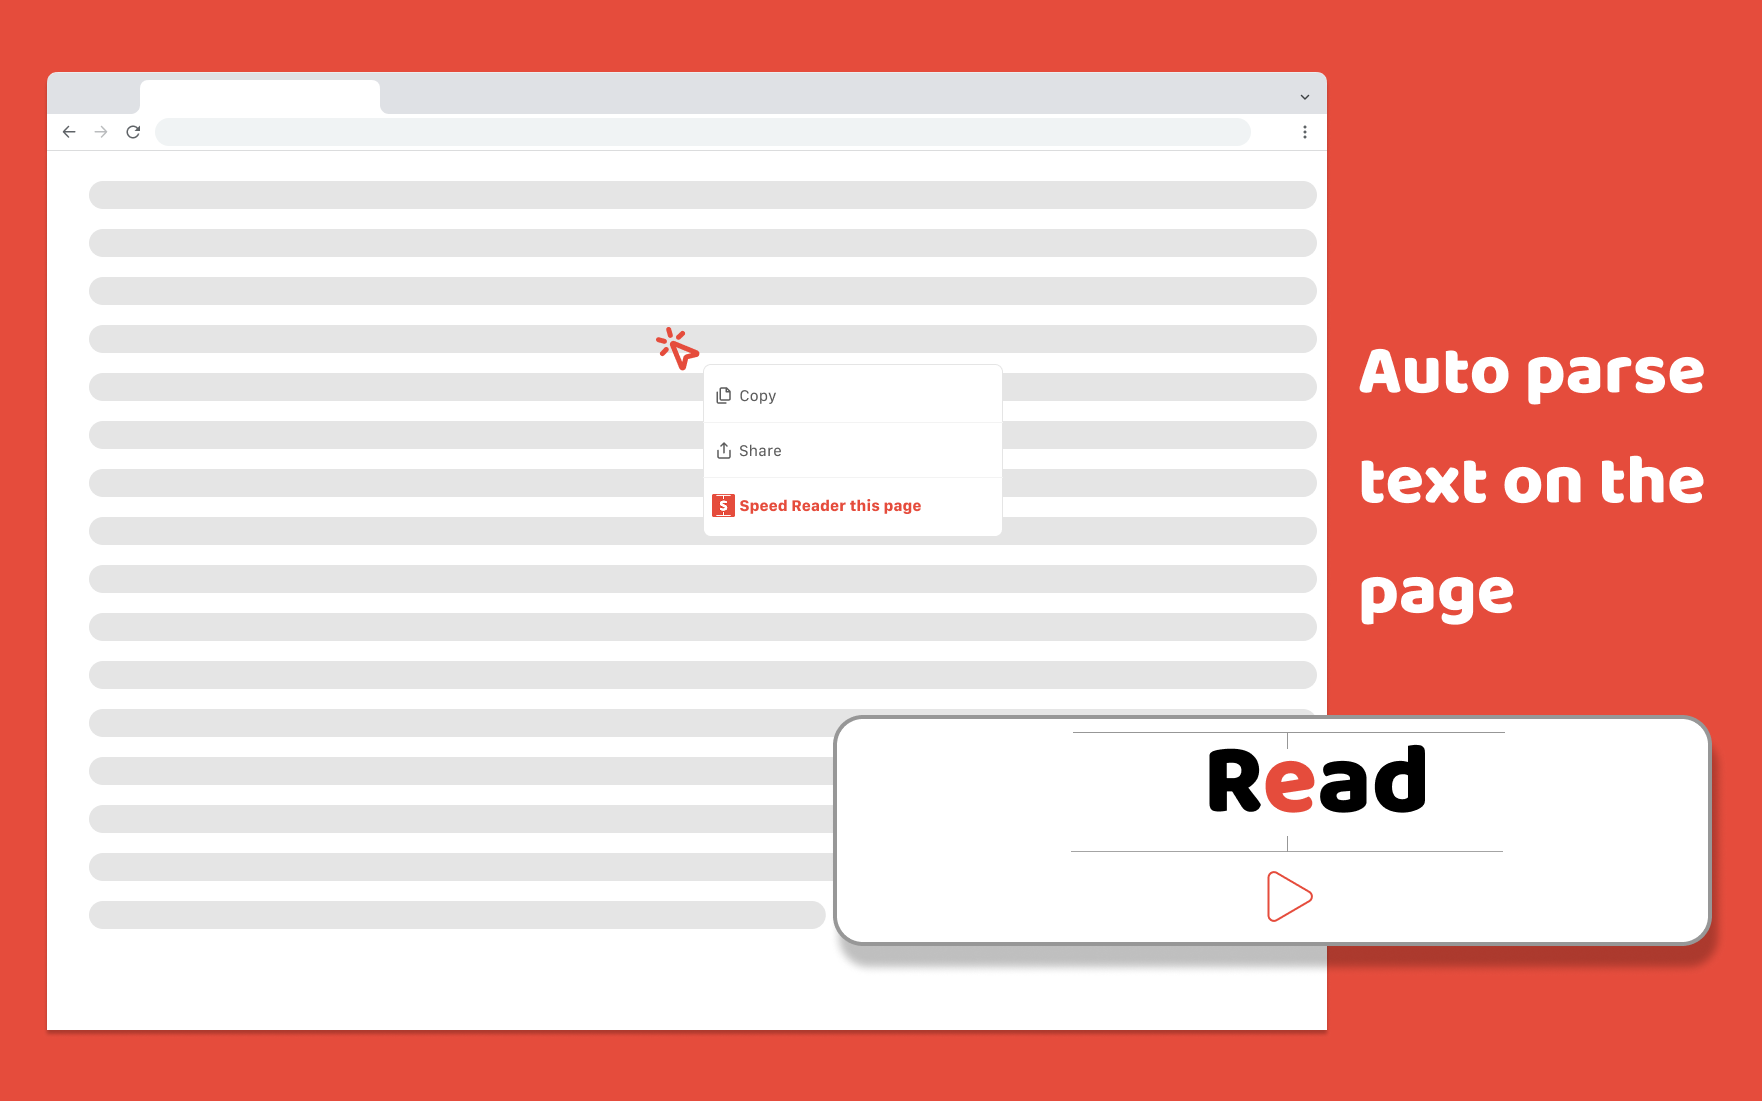
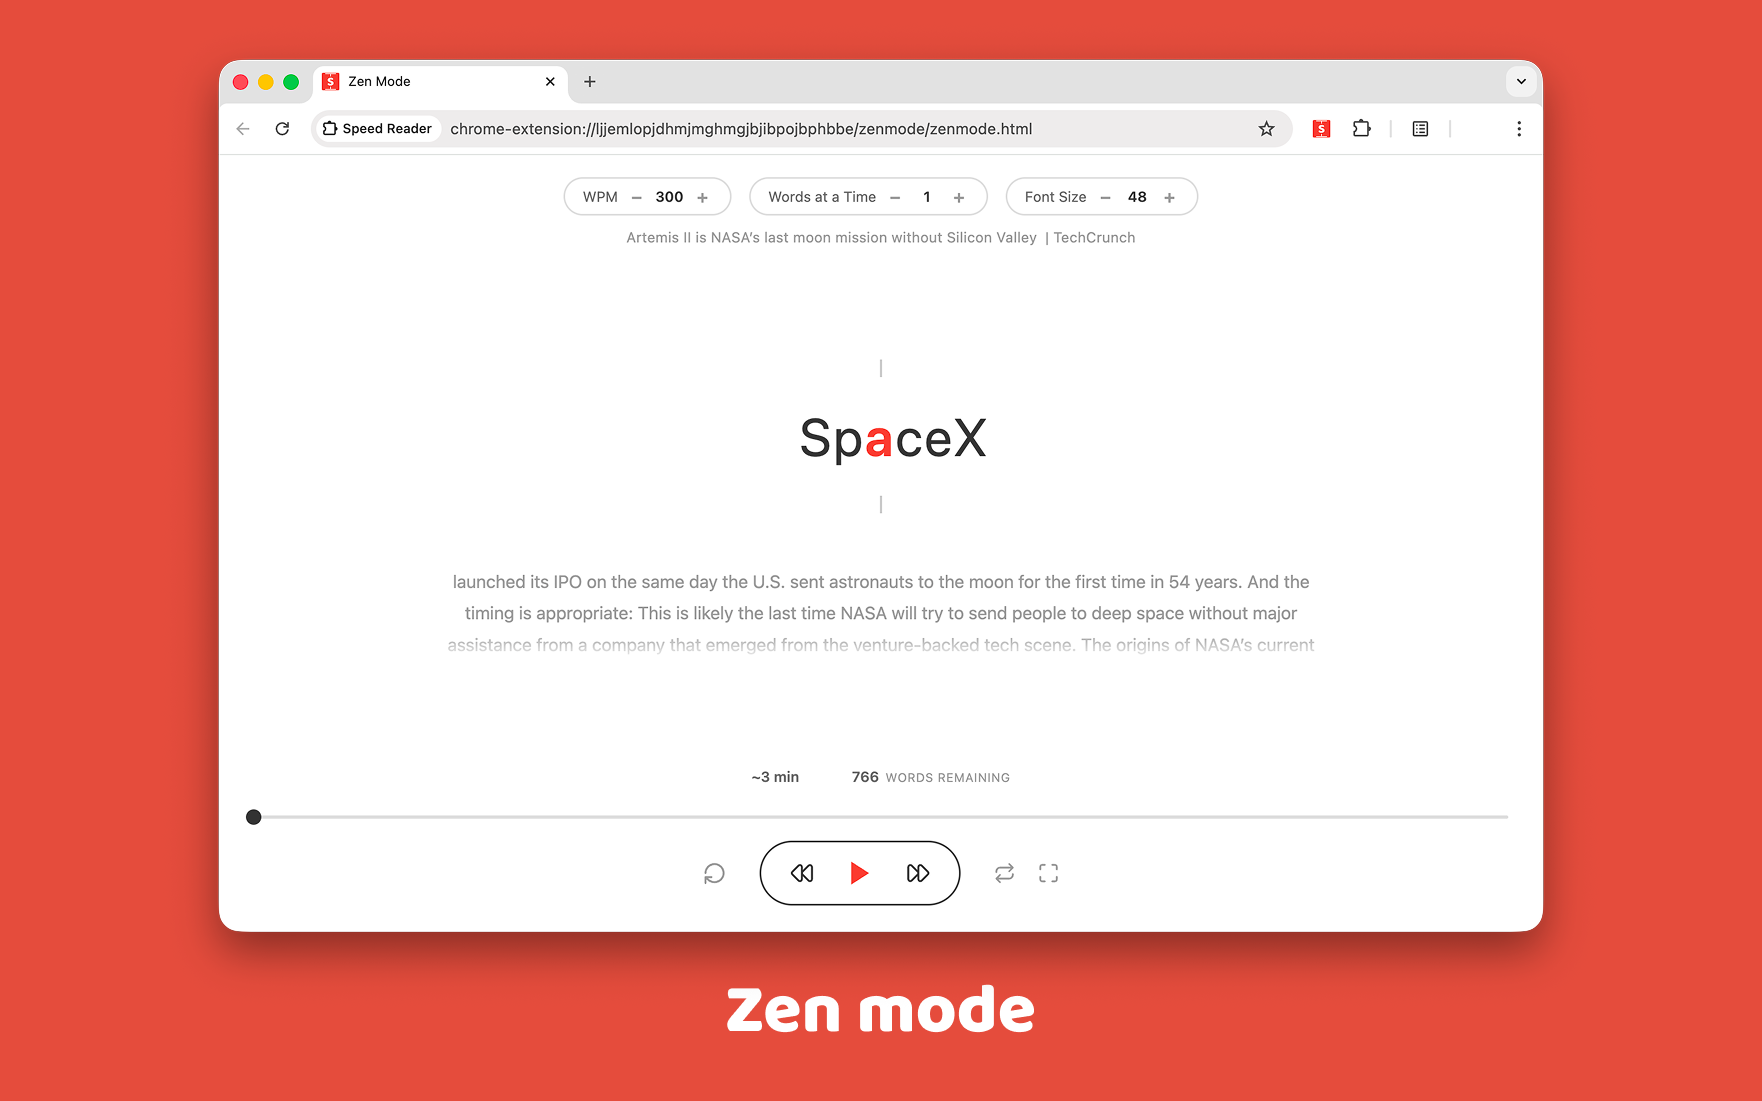
Replace Auto parse with Zen Mode as first guide item
- Remove Auto parse text feature from guide
- Move Zen Mode to first position in guide
- Rename guide4.png to guide1.png (Zen Mode screenshot)
- Delete old guide1.png (Auto parse screenshot)

Made-with: Cursor

diff --git a/app.js b/app.js
@@ -51,11 +51,11 @@ const guideTemplate = `
     <section class="steps">
         <div class="step">
             <div class="step-content">
-                <h2>Auto parse text</h2>
-                <p>Click the extension icon and Speed Reader will <strong>automatically detect</strong> and parse the main text content on the page — no selection needed.</p>
+                <h2>Zen Mode</h2>
+                <p>Open <strong>Zen Mode</strong> for a distraction-free full-page reader. It shows multiple words at a time, has progress scrubbing, adjustable font size, and keyboard controls — perfect for long reads.</p>
             </div>
             <div class="step-image">
-                <img src="images/guide1.png" alt="Auto parse text feature">
+                <img src="images/guide1.png" alt="Zen Mode full-page reader">
             </div>
         </div>
 
@@ -76,16 +76,6 @@ const guideTemplate = `
             </div>
             <div class="step-image">
                 <img src="images/guide3.png" alt="Select element feature">
-            </div>
-        </div>
-
-        <div class="step">
-            <div class="step-content">
-                <h2>Zen Mode</h2>
-                <p>Open <strong>Zen Mode</strong> for a distraction-free full-page reader. It shows multiple words at a time, has progress scrubbing, adjustable font size, and keyboard controls — perfect for long reads.</p>
-            </div>
-            <div class="step-image">
-                <img src="images/guide4.png" alt="Zen Mode full-page reader">
             </div>
         </div>
     </section>